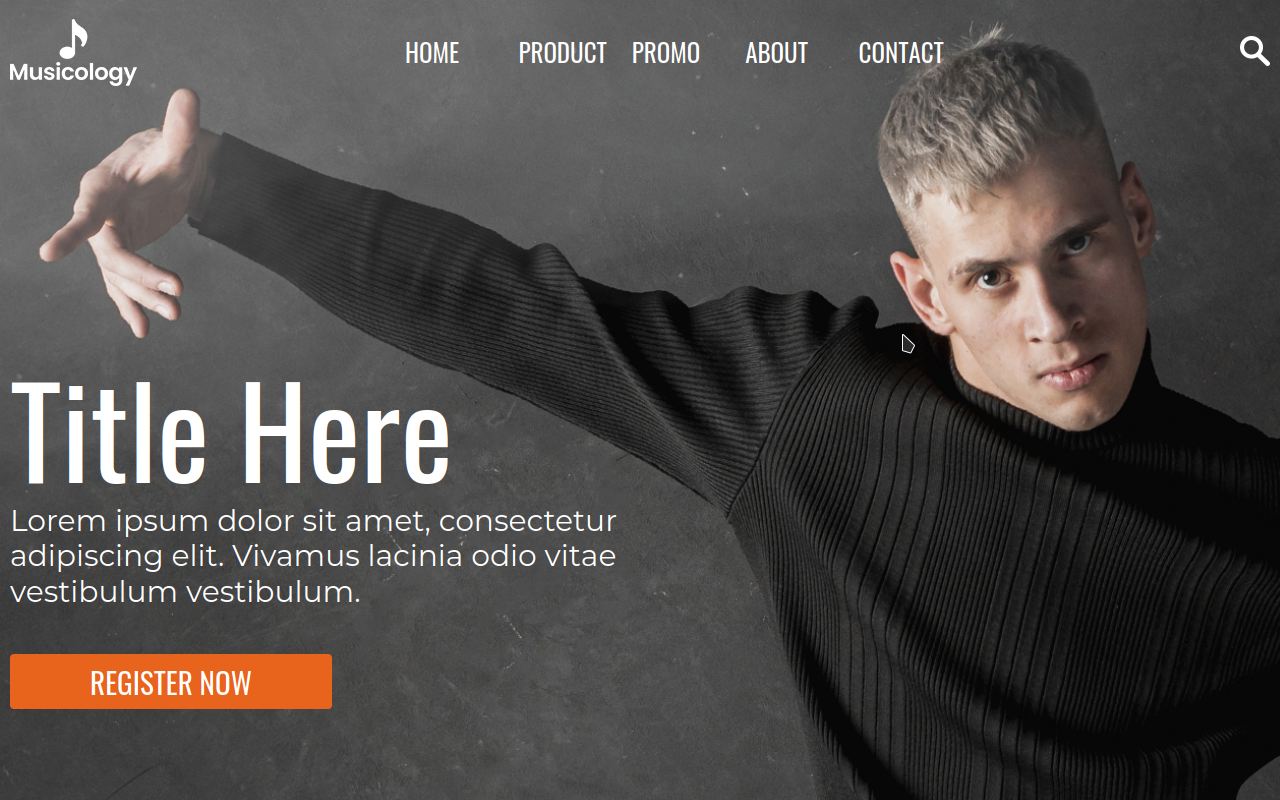
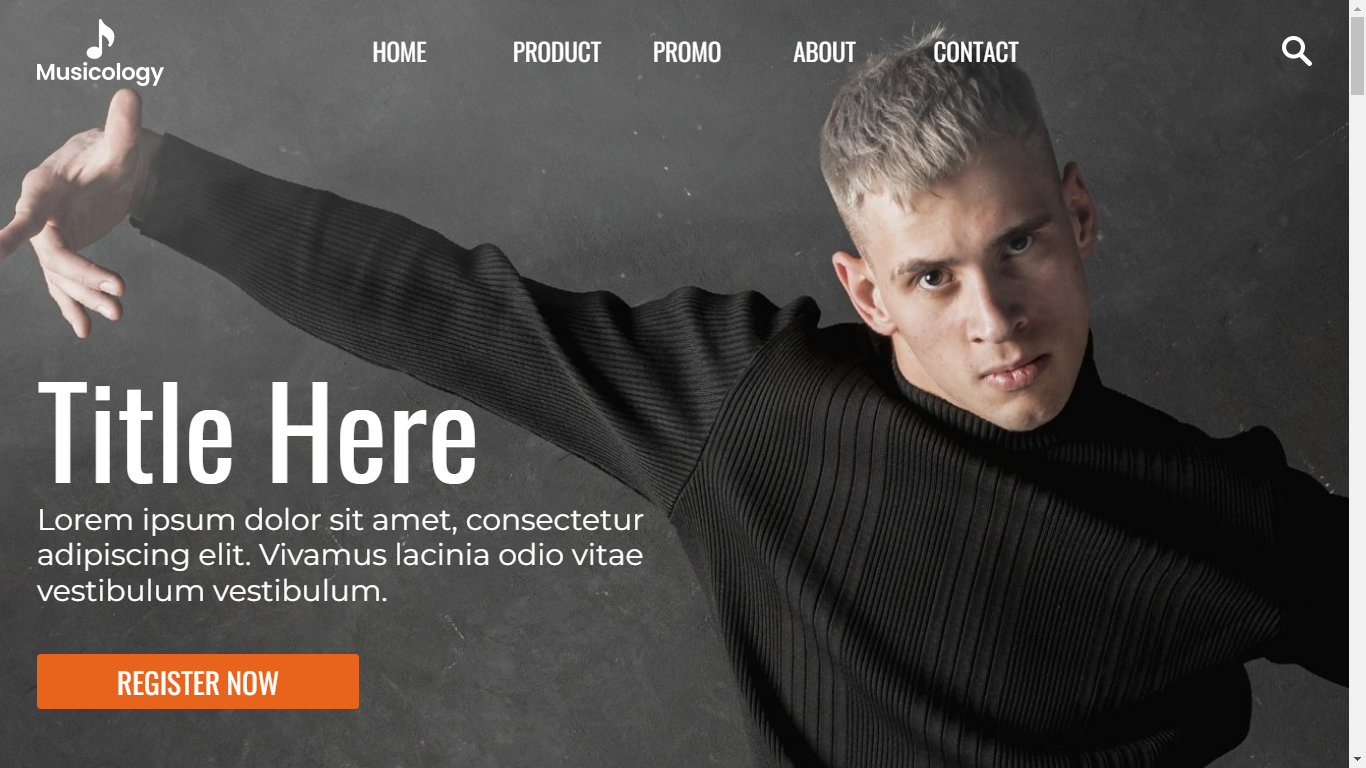
add new file

diff --git a/index.html b/index.html
@@ -37,13 +37,13 @@
 			<div class="_container hdr__container">
 
 				<div class="hdr__nav">
-					<a href="#main" class="hdr__link">Главное</a>
-					<a href="blog.html" class="hdr__link">Блог</a>
-					<a href="#services" class="hdr__link">Услуги</a>
-					<a href="#about" class="hdr__link">Обо мне</a>
-					<a href="#works" class="hdr__link">Мои Работы</a>
+					<a href="#" class="hdr__arrow"></a>
+					<a href="#main" class="hdr__link font__size-text">Главное</a>
+					<a href="blog.html" class="hdr__link font__size-text">Блог</a>
+					<a href="#services" class="hdr__link font__size-text">Услуги</a>
+					<a href="#about" class="hdr__link font__size-text">Обо мне</a>
+					<a href="#works" class="hdr__link font__size-text">Мои Работы</a>
 				</div>
-
 			</div>
 		</header>
 	<!-- header-end -->
@@ -57,8 +57,8 @@
 
 						<div class="main__content-block">
 							<h1 class="main__content-title">Привет! Я Кан-Демир</h1>
-							<p class="main__content-text">Держу пари, ты хочешь посмотреть на мои работы или дать мне её. Если да, то я к вашим услугам!</p>
-							<a href="#works" class="main__content-btn">Посмотреть</a>
+							<p class="main__content-text font__size-text">Держу пари, ты хочешь посмотреть на мои работы или дать мне её. Если да, то я к вашим услугам!</p>
+							<a href="#works" class="main__content-btn font__size-text">Посмотреть</a>
 						</div>
 					</div>
 
@@ -67,7 +67,7 @@
 
 							<h1 class="main__about-title sub_line">Обо мне</h1>
 							<h3 class="main__about-sub-title">Верстальшик</h3>
-							<p class="main__about-text">Lorem ipsum dolor sit amet, consectetur adipisicing elit. Temporibus neque vitae beatae quasi distinctio repellat quia blanditiis molestiae quisquam illo eos fuga animi veniam laborum deserunt recusandae, mollitia corrupti illum reiciendis inventore sapiente odit accusamus officiis? Id aliquid nisi ex, placeat tempore saepe amet! Maiores explicabo omnis cumque, placeat, nesciunt, quibusdam neque ex animi, modi est accusamus! Similique neque eveniet voluptatibus, odit reprehenderit saepe qui, consectetur beatae mollitia blanditiis debitis accusamus dignissimos fuga explicabo aliquam ratione asperiores corporis? Molestias assumenda inventore voluptatem laborum iste sequi iure veritatis illum. Animi consequatur eius facere atque doloribus, cumque, nobis voluptate fugit laboriosam minus!</p>
+							<p class="main__about-text font__size-text">Lorem ipsum dolor sit amet, consectetur adipisicing elit. Temporibus neque vitae beatae quasi distinctio repellat quia blanditiis molestiae quisquam illo eos fuga animi veniam laborum deserunt recusandae, mollitia corrupti illum reiciendis inventore sapiente odit accusamus officiis? Id aliquid nisi ex, placeat tempore saepe amet! Maiores explicabo omnis cumque, placeat, nesciunt, quibusdam neque ex animi, modi est accusamus! Similique neque eveniet voluptatibus, odit reprehenderit saepe qui, consectetur beatae mollitia blanditiis debitis accusamus dignissimos fuga explicabo aliquam ratione asperiores corporis? Molestias assumenda inventore voluptatem laborum iste sequi iure veritatis illum. Animi consequatur eius facere atque doloribus, cumque, nobis voluptate fugit laboriosam minus!</p>
 
 							<h3 class="main__about-sub-title">Я владею</h3>
 							<div class="main__about-technology">
@@ -85,19 +85,19 @@
 							<div class="main__services-card">
 								<img src="assets/img/card-1.jpeg" alt="card" class="main__services-img">
 								<h1 class="main__services-sup-title">Создание сайта с нуля</h1>
-								<p class="main__services-text">Lorem ipsum dolor sit amet consectetur adipisicing elit. Quo, delectus.</p>
+								<p class="main__services-text font__size-text">Lorem ipsum dolor sit amet consectetur adipisicing elit. Quo, delectus.</p>
 							</div>
 
 							<div class="main__services-card">
 								<img src="assets/img/card-2.png" alt="card" class="main__services-img">
 								<h1 class="main__services-sup-title">Доработка сайта</h1>
-								<p class="main__services-text">Lorem ipsum dolor sit amet consectetur adipisicing elit. Quo, delectus.</p>
+								<p class="main__services-text font__size-text">Lorem ipsum dolor sit amet consectetur adipisicing elit. Quo, delectus.</p>
 							</div>
 
 							<div class="main__services-card">
 								<img src="assets/img/card-3.png" alt="card" class="main__services-img">
 								<h1 class="main__services-sup-title">Исправление ошибок</h1>
-								<p class="main__services-text">Lorem ipsum dolor sit amet consectetur adipisicing elit. Quo, delectus.</p>
+								<p class="main__services-text font__size-text">Lorem ipsum dolor sit amet consectetur adipisicing elit. Quo, delectus.</p>
 							</div>
 						</div>
 					</div>
@@ -114,8 +114,8 @@
 
 								<div class="main__works-details">
 									<h1 class="main__details-title">Project <span>[Musicology]</span></h1>
-									<p class="main__details-text">Lorem, ipsum, dolor sit amet consectetur adipisicing elit. Mollitia, quaerat!</p>
-									<a href="https://kan-l2-web.github.io/Musicology/" class="main__details-btn">Посмотреть</a>
+									<p class="main__details-text font__size-text">Lorem, ipsum, dolor sit amet consectetur adipisicing elit. Mollitia, quaerat!</p>
+									<a href="https://kan-l2-web.github.io/Musicology/" class="main__details-btn font__size-text">Посмотреть</a>
 								</div>
 
 							</div>
@@ -128,8 +128,8 @@
 
 								<div class="main__works-details">
 									<h1 class="main__details-title">Project [DarkSide]</h1>
-									<p class="main__details-text">Lorem, ipsum, dolor sit amet consectetur adipisicing elit. Mollitia, quaerat!</p>
-									<a href="https://kan-l2-web.github.io/Darkside/" class="main__details-btn">Посмотреть</a>
+									<p class="main__details-text font__size-text">Lorem, ipsum, dolor sit amet consectetur adipisicing elit. Mollitia, quaerat!</p>
+									<a href="https://kan-l2-web.github.io/Darkside/" class="main__details-btn font__size-text">Посмотреть</a>
 								</div>
 								
 							</div>
@@ -137,13 +137,55 @@
 							<div class="main__works-sector">
 
 								<div class="main__works-poster">
-									<img src="http://dummyimage.com/800x550/4d494d/686a82.gif&text=placeholder+image" alt="placeholder+image">
+									<img src="assets/img/veterinarian.png" alt="image">
 								</div>
 
 								<div class="main__works-details">
-									<h1 class="main__details-title">Project [Name]</h1>
-									<p class="main__details-text">Lorem, ipsum, dolor sit amet consectetur adipisicing elit. Mollitia, quaerat!</p>
-									<a href="#" class="main__details-btn">Посмотреть</a>
+									<h1 class="main__details-title">Project [Veterinarian]</h1>
+									<p class="main__details-text font__size-text">Lorem, ipsum, dolor sit amet consectetur adipisicing elit. Mollitia, quaerat!</p>
+									<a href="https://kan-l2-web.github.io/Veterinarian/" class="main__details-btn font__size-text">Посмотреть</a>
+								</div>
+								
+							</div>
+
+							<div class="main__works-sector">
+
+								<div class="main__works-poster">
+									<img src="assets/img/burger.png" alt="image">
+								</div>
+
+								<div class="main__works-details">
+									<h1 class="main__details-title">Project [Burger]</h1>
+									<p class="main__details-text font__size-text">Lorem, ipsum, dolor sit amet consectetur adipisicing elit. Mollitia, quaerat!</p>
+									<a href="https://kan-l2-web.github.io/Burger/" class="main__details-btn font__size-text">Посмотреть</a>
+								</div>
+								
+							</div>
+
+							<div class="main__works-sector">
+
+								<div class="main__works-poster">
+									<img src="assets/img/Alpy.png" alt="image">
+								</div>
+
+								<div class="main__works-details">
+									<h1 class="main__details-title">Project [Alpy]</h1>
+									<p class="main__details-text font__size-text">Lorem, ipsum, dolor sit amet consectetur adipisicing elit. Mollitia, quaerat!</p>
+									<a href="https://kan-l2-web.github.io/Alpy/" class="main__details-btn font__size-text">Посмотреть</a>
+								</div>
+								
+							</div>
+
+							<div class="main__works-sector">
+
+								<div class="main__works-poster">
+									<img src="assets/img/test_site.png" alt="image">
+								</div>
+
+								<div class="main__works-details">
+									<h1 class="main__details-title">Project [Test site]</h1>
+									<p class="main__details-text font__size-text">Lorem, ipsum, dolor sit amet consectetur adipisicing elit. Mollitia, quaerat!</p>
+									<a href="https://kan-l2-web.github.io/test_site/" class="main__details-btn font__size-text">Посмотреть</a>
 								</div>
 								
 							</div>
@@ -175,22 +217,22 @@
 					<div class="ftr__services">
 						<h1 class="hdr__logo">Услуги</h1>
 						<ul>
-							<li>Адаптив для сайта</li>
-							<li>Доработка сайта</li>
-							<li>Верстка по макету</li>
-							<li>Исправление ошибок</li>
+							<li class="font__size-text">Адаптив для сайта</li>
+							<li class="font__size-text">Доработка сайта</li>
+							<li class="font__size-text">Верстка по макету</li>
+							<li class="font__size-text">Исправление ошибок</li>
 						</ul>
 					</div>
 
 					<div class="ftr__handbook">
 						<h1 class="hdr__logo">Полезности</h1>
 						<ul>
-							<li>Настройки Sublime</li>
-							<li>Telegram bot</li>
-							<li>JS скрипты</li>
-							<li>практика по Git</li>
-							<li>ProLinux</li>
-							<li>MarkDown</li>
+							<li class="font__size-text">Настройки Sublime</li>
+							<li class="font__size-text">Telegram bot</li>
+							<li class="font__size-text">JS скрипты</li>
+							<li class="font__size-text">практика по Git</li>
+							<li class="font__size-text">ProLinux</li>
+							<li class="font__size-text">MarkDown</li>
 						</ul>
 					</div>
 				</div>

diff --git a/assets/style/style.css b/assets/style/style.css
@@ -21,6 +21,10 @@ html {
 	scroll-behavior: smooth;
 }
 
+html, body {
+	height: 100%;
+}
+
 .wrapper {
 	display: flex;
 	flex-direction: column;
@@ -31,6 +35,7 @@ html {
 ._container {
 	margin: 0 auto;
 	max-width: 1280px;
+	min-height: 100%;
 }
 
 .hdr__sup{
@@ -40,7 +45,6 @@ html {
 .hdr__sub {
 	background: var(--base-orange);
 	flex: 0 0;
-	height: 100%;
 }
 
 .hdr__container {
@@ -62,6 +66,7 @@ html {
 	display: flex;
 	align-items: center;
 	justify-content: space-between;
+	position: relative;
 }
 
 .hdr__link {
@@ -71,7 +76,8 @@ html {
 	line-height: 1;
 	text-align: center;
 	color: var(--white);
-	font-size: 27px;
+	font-size: calc(14px + 16 * (100vw / 1280));
+	/*font-size: 27px;*/
 	font-family: 'Comfortaa', cursive;
 }
 
@@ -92,6 +98,35 @@ html {
 .hdr__link:hover::after {
 	opacity: 1;
 	visibility: visible;
+}
+
+.hdr__arrow {
+	position: relative;
+	width: 32px;
+	height: 32px;
+	display: block;
+	border: 2px solid var(--white);
+	border-radius: 3px;
+	display: none;
+}
+
+.hdr__arrow::before {
+	content: '';
+	position: absolute;
+	left: 22%;
+	top: 50%;
+	width: 16px;
+	height: 16px;
+	display: block;
+	border: 3px solid var(--white);
+	border-width: 0 3px 3px 0px;
+	transform: rotate(46deg) translate(-50%, -50%);
+	transition: all .5s ease-out;
+}
+
+.hdr__arrow.active::before {
+	top: 0%;
+	transform: rotate(226deg) translate(-50%, -50%);
 }
 
 @media(max-width: 1169px) {
@@ -116,10 +151,6 @@ html {
 		align-items: center;
 		justify-content: space-between;
 	}
-
-	.hdr__link {
-		font-size: 22px;
-	}
 }
 
 @media(max-width: 787px) {
@@ -137,15 +168,35 @@ html {
 		font-family: 'Arimo', sans-serif;
 	}
 
+	.hdr__sub {
+		display: block;
+		overflow: hidden;
+		max-height: 42px;
+		transition: all .7s ease-out;
+	}
+
+	.hdr__sub.active {
+		max-height: 100vh;
+	}
+
 	.hdr__nav {
 		width: 100%;
 		display: flex;
-		align-items: center;
+		align-items: flex-start;
 		justify-content: space-between;
+		flex-direction: column;
 	}
 
+	.hdr__arrow {
+		display: block;
+		align-self: end;
+	}
 	.hdr__link {
-		font-size: 18px;
+		padding: 5px 10px;
+	}
+
+	.font__size-text {
+		font-size: calc(14px + (16 + 16 * 0.7) * ((100vw - 320px) / 1280));
 	}
 }
 
@@ -164,15 +215,8 @@ html {
 		font-family: 'Arimo', sans-serif;
 	}
 
-	.hdr__nav {
-		width: 100%;
-		display: flex;
-		align-items: center;
-		justify-content: space-between;
-	}
-
 	.hdr__link {
-		font-size: 14px;
+		
 	}
 }
 
@@ -1036,3 +1080,11 @@ html {
 	visibility: hidden;
 }
 
+.font__size-text {
+	font-size: calc(14px + 10 * (100vw / 1280));
+}
+@media (max-width: 797px){
+	.font__size-text {
+		font-size: calc(14px + 16 * (100vw / 1280));
+	}
+}

diff --git a/assets/script/script.js b/assets/script/script.js
@@ -1,3 +1,13 @@
+const arrowBtn = document.querySelector('.hdr__arrow');
+const headerSub = document.querySelector('.hdr__sub');
+
+arrowBtn.addEventListener('click', function(e) {
+	e.preventDefault();
+	headerSub.classList.toggle('active');
+	arrowBtn.classList.toggle('active');
+});
+
+
 document.body.style.overflow = "hidden";
 
 document.body.onload = function () {
